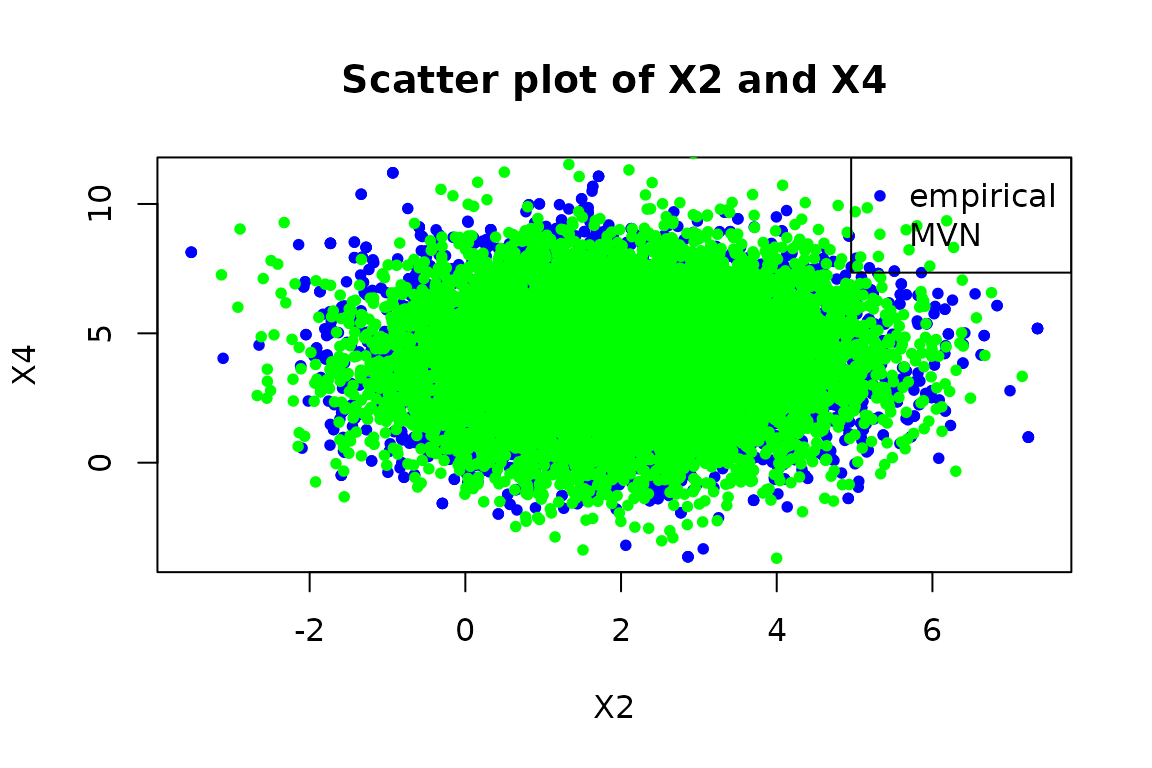
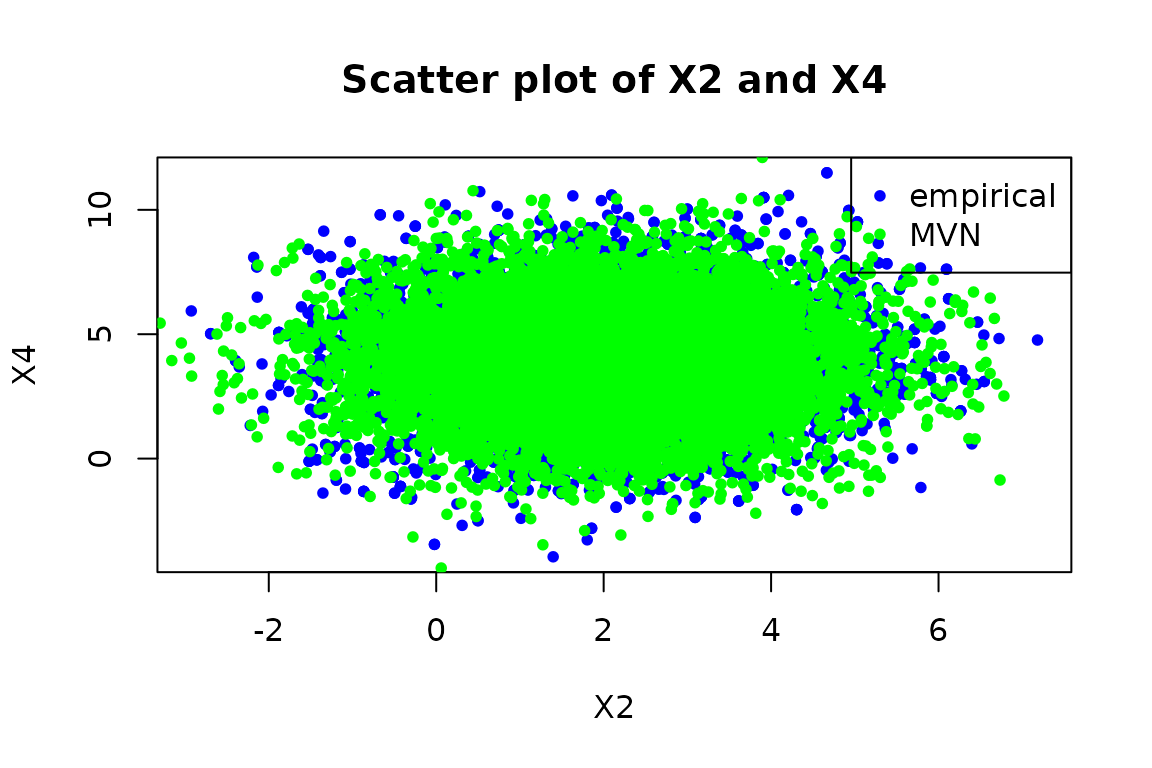
updates

diff --git a/docs/articles/example.html b/docs/articles/example.html
@@ -128,27 +128,27 @@
 <p>We have a sample of size <span class="math inline">\(n=10000\)</span> from the DGP. We show some observations from this sample with:</p>
 <div class="sourceCode" id="cb5"><pre class="downlit sourceCode r">
 <code class="sourceCode R"><span><span class="fu"><a href="https://rdrr.io/r/utils/head.html" class="external-link">head</a></span><span class="op">(</span><span class="va">data</span>, n<span class="op">=</span><span class="fl">6</span><span class="op">)</span></span>
-<span><span class="co">#&gt;       [,1]  [,2] [,3]  [,4] [,5]</span></span>
-<span><span class="co">#&gt; [1,] 0.460 3.359 1.59 1.866 1.92</span></span>
-<span><span class="co">#&gt; [2,] 1.669 2.077 3.93 0.789 2.46</span></span>
-<span><span class="co">#&gt; [3,] 0.714 4.816 5.71 2.557 4.35</span></span>
-<span><span class="co">#&gt; [4,] 1.371 1.579 4.43 9.858 5.75</span></span>
-<span><span class="co">#&gt; [5,] 1.121 1.974 3.25 1.475 5.04</span></span>
-<span><span class="co">#&gt; [6,] 1.503 0.892 4.41 6.675 3.43</span></span></code></pre></div>
+<span><span class="co">#&gt;        [,1]   [,2]  [,3] [,4]  [,5]</span></span>
+<span><span class="co">#&gt; [1,]  1.018  2.875 1.966 1.84 1.920</span></span>
+<span><span class="co">#&gt; [2,]  2.754  1.049 2.824 2.71 0.694</span></span>
+<span><span class="co">#&gt; [3,] -0.816  3.614 3.716 2.69 9.839</span></span>
+<span><span class="co">#&gt; [4,]  0.837  3.573 0.499 2.09 4.872</span></span>
+<span><span class="co">#&gt; [5,]  1.881  3.709 4.856 8.04 5.531</span></span>
+<span><span class="co">#&gt; [6,]  0.976 -0.927 1.493 2.67 5.932</span></span></code></pre></div>
 <p>Now, we also construct a empirical distribution from the sample with:</p>
 <div class="sourceCode" id="cb6"><pre class="downlit sourceCode r">
 <code class="sourceCode R"><span><span class="va">emp</span> <span class="op">&lt;-</span> <span class="fu"><a href="../reference/empirical_dist.html">empirical_dist</a></span><span class="op">(</span><span class="va">data</span><span class="op">)</span></span>
 <span><span class="fu"><a href="https://rdrr.io/r/base/print.html" class="external-link">print</a></span><span class="op">(</span><span class="va">emp</span><span class="op">)</span></span>
 <span><span class="co">#&gt; Empirical Distribution </span></span>
 <span><span class="co">#&gt; Mean:</span></span>
-<span><span class="co">#&gt; [1] 1.00 2.00 3.01 4.01 4.99</span></span>
+<span><span class="co">#&gt; [1] 1.01 2.02 2.99 4.00 5.00</span></span>
 <span><span class="co">#&gt; Covariance:</span></span>
-<span><span class="co">#&gt;          [,1]    [,2]    [,3]    [,4]     [,5]</span></span>
-<span><span class="co">#&gt; [1,]  1.00845 -0.0155 -0.0232 -0.0193  0.00267</span></span>
-<span><span class="co">#&gt; [2,] -0.01550  2.0363 -0.0155 -0.0543 -0.02229</span></span>
-<span><span class="co">#&gt; [3,] -0.02323 -0.0155  2.9540  0.0784  0.03634</span></span>
-<span><span class="co">#&gt; [4,] -0.01934 -0.0543  0.0784  3.9507 -0.00310</span></span>
-<span><span class="co">#&gt; [5,]  0.00267 -0.0223  0.0363 -0.0031  5.08158</span></span>
+<span><span class="co">#&gt;         [,1]     [,2]     [,3]   [,4]    [,5]</span></span>
+<span><span class="co">#&gt; [1,] 1.00960  0.01305  0.00684 0.0220 0.00859</span></span>
+<span><span class="co">#&gt; [2,] 0.01305  1.94926 -0.00593 0.0461 0.04928</span></span>
+<span><span class="co">#&gt; [3,] 0.00684 -0.00593  3.10654 0.0139 0.08274</span></span>
+<span><span class="co">#&gt; [4,] 0.02201  0.04607  0.01393 4.0401 0.05753</span></span>
+<span><span class="co">#&gt; [5,] 0.00859  0.04928  0.08274 0.0575 4.94639</span></span>
 <span><span class="co">#&gt; Number of observations: 10000</span></span></code></pre></div>
 <p>Since this is the empirical distribution, it is parameter-free:</p>
 <div class="sourceCode" id="cb7"><pre class="downlit sourceCode r">
@@ -165,16 +165,16 @@
 <span><span class="fu"><a href="https://rdrr.io/r/base/row.names.html" class="external-link">row.names</a></span><span class="op">(</span><span class="va">df</span><span class="op">)</span> <span class="op">&lt;-</span> <span class="fu"><a href="https://rdrr.io/r/base/paste.html" class="external-link">paste0</a></span><span class="op">(</span><span class="st">"param"</span>,<span class="fl">1</span><span class="op">:</span><span class="fu"><a href="https://rdrr.io/r/base/dim.html" class="external-link">dim</a></span><span class="op">(</span><span class="fu"><a href="../reference/sup.html">sup</a></span><span class="op">(</span><span class="va">M</span><span class="op">)</span><span class="op">)</span><span class="op">)</span></span>
 <span><span class="fu"><a href="https://rdrr.io/r/base/print.html" class="external-link">print</a></span><span class="op">(</span><span class="va">df</span><span class="op">)</span></span>
 <span><span class="co">#&gt;        supremum.mvn supremum.emp infimum.mvn infimum.emp</span></span>
-<span><span class="co">#&gt; param1          Inf         4.56        -Inf       -2.38</span></span>
-<span><span class="co">#&gt; param2          Inf         7.35        -Inf       -3.55</span></span>
-<span><span class="co">#&gt; param3          Inf         9.14        -Inf       -3.93</span></span>
-<span><span class="co">#&gt; param4          Inf        11.20        -Inf       -3.64</span></span>
-<span><span class="co">#&gt; param5          Inf        12.83        -Inf       -3.60</span></span></code></pre></div>
+<span><span class="co">#&gt; param1          Inf         4.42        -Inf       -3.26</span></span>
+<span><span class="co">#&gt; param2          Inf         7.54        -Inf       -2.93</span></span>
+<span><span class="co">#&gt; param3          Inf         9.56        -Inf       -3.56</span></span>
+<span><span class="co">#&gt; param4          Inf        11.78        -Inf       -3.95</span></span>
+<span><span class="co">#&gt; param5          Inf        13.35        -Inf       -3.97</span></span></code></pre></div>
 <p>Let’s compare the mean and covariance-variance matrices of both the MVN and the empirical distribution of the MVN. First, let’s look at the means.</p>
 <div class="sourceCode" id="cb9"><pre class="downlit sourceCode r">
 <code class="sourceCode R"><span><span class="fu"><a href="https://rdrr.io/r/base/mean.html" class="external-link">mean</a></span><span class="op">(</span><span class="va">M</span><span class="op">)</span>; <span class="fu"><a href="https://rdrr.io/r/base/mean.html" class="external-link">mean</a></span><span class="op">(</span><span class="va">emp</span><span class="op">)</span></span>
 <span><span class="co">#&gt; [1] 1 2 3 4 5</span></span>
-<span><span class="co">#&gt; [1] 1.00 2.00 3.01 4.01 4.99</span></span></code></pre></div>
+<span><span class="co">#&gt; [1] 1.01 2.02 2.99 4.00 5.00</span></span></code></pre></div>
 <p>As expected, pretty close. Now let’s look at the variance-covariance:</p>
 <div class="sourceCode" id="cb10"><pre class="downlit sourceCode r">
 <code class="sourceCode R"><span><span class="fu"><a href="https://rdrr.io/r/stats/vcov.html" class="external-link">vcov</a></span><span class="op">(</span><span class="va">M</span><span class="op">)</span>; <span class="fu"><a href="https://rdrr.io/r/stats/vcov.html" class="external-link">vcov</a></span><span class="op">(</span><span class="va">emp</span><span class="op">)</span></span>
@@ -184,51 +184,51 @@
 <span><span class="co">#&gt; [3,]    0    0    3    0    0</span></span>
 <span><span class="co">#&gt; [4,]    0    0    0    4    0</span></span>
 <span><span class="co">#&gt; [5,]    0    0    0    0    5</span></span>
-<span><span class="co">#&gt;          [,1]    [,2]    [,3]    [,4]     [,5]</span></span>
-<span><span class="co">#&gt; [1,]  1.00845 -0.0155 -0.0232 -0.0193  0.00267</span></span>
-<span><span class="co">#&gt; [2,] -0.01550  2.0363 -0.0155 -0.0543 -0.02229</span></span>
-<span><span class="co">#&gt; [3,] -0.02323 -0.0155  2.9540  0.0784  0.03634</span></span>
-<span><span class="co">#&gt; [4,] -0.01934 -0.0543  0.0784  3.9507 -0.00310</span></span>
-<span><span class="co">#&gt; [5,]  0.00267 -0.0223  0.0363 -0.0031  5.08158</span></span></code></pre></div>
+<span><span class="co">#&gt;         [,1]     [,2]     [,3]   [,4]    [,5]</span></span>
+<span><span class="co">#&gt; [1,] 1.00960  0.01305  0.00684 0.0220 0.00859</span></span>
+<span><span class="co">#&gt; [2,] 0.01305  1.94926 -0.00593 0.0461 0.04928</span></span>
+<span><span class="co">#&gt; [3,] 0.00684 -0.00593  3.10654 0.0139 0.08274</span></span>
+<span><span class="co">#&gt; [4,] 0.02201  0.04607  0.01393 4.0401 0.05753</span></span>
+<span><span class="co">#&gt; [5,] 0.00859  0.04928  0.08274 0.0575 4.94639</span></span></code></pre></div>
 <p>The true variances of the population defined by the MVN <span class="math inline">\(M\)</span> is the diagonal of the variance-covariance matrix:</p>
 <div class="sourceCode" id="cb11"><pre class="downlit sourceCode r">
 <code class="sourceCode R"><span><span class="fu"><a href="https://rdrr.io/r/base/diag.html" class="external-link">diag</a></span><span class="op">(</span><span class="fu"><a href="https://rdrr.io/r/stats/vcov.html" class="external-link">vcov</a></span><span class="op">(</span><span class="va">M</span><span class="op">)</span><span class="op">)</span>; <span class="fu"><a href="https://rdrr.io/r/base/diag.html" class="external-link">diag</a></span><span class="op">(</span><span class="fu"><a href="https://rdrr.io/r/stats/vcov.html" class="external-link">vcov</a></span><span class="op">(</span><span class="va">emp</span><span class="op">)</span><span class="op">)</span></span>
 <span><span class="co">#&gt; [1] 1 2 3 4 5</span></span>
-<span><span class="co">#&gt; [1] 1.01 2.04 2.95 3.95 5.08</span></span></code></pre></div>
+<span><span class="co">#&gt; [1] 1.01 1.95 3.11 4.04 4.95</span></span></code></pre></div>
 <p>Let’s compute the variances using the general expectation method:</p>
 <div class="sourceCode" id="cb12"><pre class="downlit sourceCode r">
 <code class="sourceCode R"><span><span class="va">mu.emp</span> <span class="op">&lt;-</span> <span class="fu"><a href="https://rdrr.io/r/base/mean.html" class="external-link">mean</a></span><span class="op">(</span><span class="va">emp</span><span class="op">)</span></span>
 <span><span class="fu"><a href="../reference/expectation.html">expectation</a></span><span class="op">(</span><span class="va">emp</span>, <span class="kw">function</span><span class="op">(</span><span class="va">x</span><span class="op">)</span> <span class="op">(</span><span class="va">x</span> <span class="op">-</span> <span class="va">mu.emp</span><span class="op">)</span><span class="op">^</span><span class="fl">2</span><span class="op">)</span></span>
-<span><span class="co">#&gt; [1] 1.01 2.04 2.95 3.95 5.08</span></span>
+<span><span class="co">#&gt; [1] 1.01 1.95 3.11 4.04 4.95</span></span>
 <span><span class="fu"><a href="../reference/expectation.html">expectation</a></span><span class="op">(</span><span class="va">M</span>, <span class="kw">function</span><span class="op">(</span><span class="va">x</span><span class="op">)</span> <span class="op">(</span><span class="va">x</span> <span class="op">-</span> <span class="fu"><a href="https://rdrr.io/r/base/mean.html" class="external-link">mean</a></span><span class="op">(</span><span class="va">M</span><span class="op">)</span><span class="op">)</span><span class="op">^</span><span class="fl">2</span>, control <span class="op">=</span> <span class="fu"><a href="https://rdrr.io/r/base/list.html" class="external-link">list</a></span><span class="op">(</span>n <span class="op">=</span> <span class="va">n</span><span class="op">)</span><span class="op">)</span></span>
-<span><span class="co">#&gt; [1] 1.01 1.99 2.99 4.11 5.11</span></span></code></pre></div>
+<span><span class="co">#&gt; [1] 0.998 1.969 2.997 3.941 4.926</span></span></code></pre></div>
 <p>We see that these are pretty good estimates, as the expectation is actually a Monte Carlo approximation. We can see the CI’s with:</p>
 <div class="sourceCode" id="cb13"><pre class="downlit sourceCode r">
 <code class="sourceCode R"><span><span class="fu"><a href="../reference/expectation.html">expectation</a></span><span class="op">(</span><span class="va">emp</span>, <span class="kw">function</span><span class="op">(</span><span class="va">x</span><span class="op">)</span> <span class="op">(</span><span class="va">x</span> <span class="op">-</span> <span class="va">mu.emp</span><span class="op">)</span><span class="op">^</span><span class="fl">2</span>, control <span class="op">=</span> <span class="fu"><a href="https://rdrr.io/r/base/list.html" class="external-link">list</a></span><span class="op">(</span>compute_stats <span class="op">=</span> <span class="cn">TRUE</span><span class="op">)</span><span class="op">)</span></span>
 <span><span class="co">#&gt; $value</span></span>
-<span><span class="co">#&gt; [1] 1.01 2.04 2.95 3.95 5.08</span></span>
+<span><span class="co">#&gt; [1] 1.01 1.95 3.11 4.04 4.95</span></span>
 <span><span class="co">#&gt; </span></span>
 <span><span class="co">#&gt; $ci</span></span>
 <span><span class="co">#&gt;       [,1] [,2]</span></span>
 <span><span class="co">#&gt; [1,] 0.981 1.04</span></span>
-<span><span class="co">#&gt; [2,] 1.979 2.09</span></span>
-<span><span class="co">#&gt; [3,] 2.871 3.04</span></span>
-<span><span class="co">#&gt; [4,] 3.841 4.06</span></span>
-<span><span class="co">#&gt; [5,] 4.938 5.22</span></span>
+<span><span class="co">#&gt; [2,] 1.895 2.00</span></span>
+<span><span class="co">#&gt; [3,] 3.019 3.19</span></span>
+<span><span class="co">#&gt; [4,] 3.926 4.15</span></span>
+<span><span class="co">#&gt; [5,] 4.808 5.08</span></span>
 <span><span class="co">#&gt; </span></span>
 <span><span class="co">#&gt; $n</span></span>
 <span><span class="co">#&gt; [1] 10000</span></span>
 <span><span class="fu"><a href="../reference/expectation.html">expectation</a></span><span class="op">(</span><span class="va">M</span>, <span class="kw">function</span><span class="op">(</span><span class="va">x</span><span class="op">)</span> <span class="op">(</span><span class="va">x</span> <span class="op">-</span> <span class="fu"><a href="https://rdrr.io/r/base/mean.html" class="external-link">mean</a></span><span class="op">(</span><span class="va">M</span><span class="op">)</span><span class="op">)</span><span class="op">^</span><span class="fl">2</span>, control <span class="op">=</span> <span class="fu"><a href="https://rdrr.io/r/base/list.html" class="external-link">list</a></span><span class="op">(</span>n <span class="op">=</span> <span class="va">n</span>, compute_stats <span class="op">=</span> <span class="cn">TRUE</span><span class="op">)</span><span class="op">)</span></span>
 <span><span class="co">#&gt; $value</span></span>
-<span><span class="co">#&gt; [1] 0.987 1.985 2.986 3.980 4.978</span></span>
+<span><span class="co">#&gt; [1] 1.00 1.94 2.89 3.97 4.95</span></span>
 <span><span class="co">#&gt; </span></span>
 <span><span class="co">#&gt; $ci</span></span>
-<span><span class="co">#&gt;      [,1] [,2]</span></span>
-<span><span class="co">#&gt; [1,] 0.96 1.01</span></span>
-<span><span class="co">#&gt; [2,] 1.93 2.04</span></span>
-<span><span class="co">#&gt; [3,] 2.90 3.07</span></span>
-<span><span class="co">#&gt; [4,] 3.87 4.09</span></span>
-<span><span class="co">#&gt; [5,] 4.84 5.12</span></span>
+<span><span class="co">#&gt;       [,1] [,2]</span></span>
+<span><span class="co">#&gt; [1,] 0.975 1.03</span></span>
+<span><span class="co">#&gt; [2,] 1.891 2.00</span></span>
+<span><span class="co">#&gt; [3,] 2.813 2.97</span></span>
+<span><span class="co">#&gt; [4,] 3.859 4.08</span></span>
+<span><span class="co">#&gt; [5,] 4.811 5.09</span></span>
 <span><span class="co">#&gt; </span></span>
 <span><span class="co">#&gt; $n</span></span>
 <span><span class="co">#&gt; [1] 10000</span></span></code></pre></div>
@@ -236,9 +236,9 @@
 <div class="sourceCode" id="cb14"><pre class="downlit sourceCode r">
 <code class="sourceCode R"><span><span class="va">mu.emp</span> <span class="op">&lt;-</span> <span class="fu"><a href="https://rdrr.io/r/base/mean.html" class="external-link">mean</a></span><span class="op">(</span><span class="va">emp</span><span class="op">)</span></span>
 <span><span class="fu"><a href="https://rdrr.io/r/base/mean.html" class="external-link">mean</a></span><span class="op">(</span><span class="fu"><a href="../reference/rmap.html">rmap</a></span><span class="op">(</span><span class="va">emp</span>, <span class="kw">function</span><span class="op">(</span><span class="va">x</span><span class="op">)</span> <span class="op">(</span><span class="va">x</span> <span class="op">-</span> <span class="va">mu.emp</span><span class="op">)</span><span class="op">^</span><span class="fl">2</span><span class="op">)</span><span class="op">)</span></span>
-<span><span class="co">#&gt; [1] 1.01 2.04 2.95 3.95 5.08</span></span>
+<span><span class="co">#&gt; [1] 1.01 1.95 3.11 4.04 4.95</span></span>
 <span><span class="fu"><a href="https://rdrr.io/r/base/mean.html" class="external-link">mean</a></span><span class="op">(</span><span class="fu"><a href="../reference/rmap.html">rmap</a></span><span class="op">(</span><span class="va">M</span>, <span class="kw">function</span><span class="op">(</span><span class="va">x</span><span class="op">)</span> <span class="op">(</span><span class="va">x</span> <span class="op">-</span> <span class="fu"><a href="https://rdrr.io/r/base/mean.html" class="external-link">mean</a></span><span class="op">(</span><span class="va">M</span><span class="op">)</span><span class="op">)</span><span class="op">^</span><span class="fl">2</span>, n <span class="op">=</span> <span class="va">n</span><span class="op">)</span><span class="op">)</span></span>
-<span><span class="co">#&gt; [1] 0.978 1.995 2.959 3.964 5.017</span></span></code></pre></div>
+<span><span class="co">#&gt; [1] 0.978 2.009 3.052 4.069 4.895</span></span></code></pre></div>
 <p>These are both reasonable estimates of the variance.</p>
 <p>The PDF of the empirical is not very useful – it gets <span class="math inline">\(1/n\)</span> for each observation:</p>
 <div class="sourceCode" id="cb15"><pre class="downlit sourceCode r">
@@ -249,8 +249,8 @@
 <span>  pdf.emp <span class="op">=</span> <span class="fu"><a href="https://rdrr.io/r/base/c.html" class="external-link">c</a></span><span class="op">(</span><span class="fu"><a href="https://rdrr.io/r/stats/density.html" class="external-link">density</a></span><span class="op">(</span><span class="va">emp</span><span class="op">)</span><span class="op">(</span><span class="va">x</span><span class="op">)</span>, <span class="fu"><a href="https://rdrr.io/r/stats/density.html" class="external-link">density</a></span><span class="op">(</span><span class="va">emp</span><span class="op">)</span><span class="op">(</span><span class="va">y</span><span class="op">)</span><span class="op">)</span>,</span>
 <span>  pdf.mvn <span class="op">=</span> <span class="fu"><a href="https://rdrr.io/r/base/c.html" class="external-link">c</a></span><span class="op">(</span><span class="fu"><a href="https://rdrr.io/r/stats/density.html" class="external-link">density</a></span><span class="op">(</span><span class="va">M</span><span class="op">)</span><span class="op">(</span><span class="va">x</span><span class="op">)</span>, <span class="fu"><a href="https://rdrr.io/r/stats/density.html" class="external-link">density</a></span><span class="op">(</span><span class="va">M</span><span class="op">)</span><span class="op">(</span><span class="va">y</span><span class="op">)</span><span class="op">)</span><span class="op">)</span></span>
 <span><span class="co">#&gt;             ob pdf.emp   pdf.mvn</span></span>
-<span><span class="co">#&gt; 1 empirical(x)  0.0001 0.0000370</span></span>
-<span><span class="co">#&gt; 2       MVN(y)  0.0000 0.0000975</span></span></code></pre></div>
+<span><span class="co">#&gt; 1 empirical(x)  0.0001 0.0000579</span></span>
+<span><span class="co">#&gt; 2       MVN(y)  0.0000 0.0001495</span></span></code></pre></div>
 <p>Let’s plot the CDF of marginal distribution of <span class="math inline">\(X_1\)</span>:</p>
 <div class="sourceCode" id="cb16"><pre class="downlit sourceCode r">
 <code class="sourceCode R"><span><span class="va">X1.emp</span> <span class="op">&lt;-</span> <span class="fu"><a href="../reference/marginal.html">marginal</a></span><span class="op">(</span><span class="va">emp</span>, <span class="fl">1</span><span class="op">)</span></span>
@@ -306,9 +306,9 @@
 <p>Now we show the mean of the conditional distribution, <span class="math inline">\(X | X_1 + X_2 &lt; 0\)</span>:</p>
 <div class="sourceCode" id="cb21"><pre class="downlit sourceCode r">
 <code class="sourceCode R"><span><span class="fu"><a href="https://rdrr.io/r/base/mean.html" class="external-link">mean</a></span><span class="op">(</span><span class="fu"><a href="../reference/conditional.html">conditional</a></span><span class="op">(</span><span class="va">emp</span>, <span class="kw">function</span><span class="op">(</span><span class="va">x</span><span class="op">)</span> <span class="va">x</span><span class="op">[</span><span class="fl">1</span><span class="op">]</span> <span class="op">+</span> <span class="va">x</span><span class="op">[</span><span class="fl">2</span><span class="op">]</span> <span class="op">&lt;</span> <span class="fl">0</span><span class="op">)</span><span class="op">)</span></span>
-<span><span class="co">#&gt; [1] -0.259 -0.484  3.122  4.127  5.202</span></span>
+<span><span class="co">#&gt; [1] -0.294 -0.329  3.095  3.996  4.871</span></span>
 <span><span class="fu"><a href="https://rdrr.io/r/base/mean.html" class="external-link">mean</a></span><span class="op">(</span><span class="fu"><a href="../reference/conditional.html">conditional</a></span><span class="op">(</span><span class="va">M</span>, <span class="kw">function</span><span class="op">(</span><span class="va">x</span><span class="op">)</span> <span class="va">x</span><span class="op">[</span><span class="fl">1</span><span class="op">]</span> <span class="op">+</span> <span class="va">x</span><span class="op">[</span><span class="fl">2</span><span class="op">]</span> <span class="op">&lt;</span> <span class="fl">0</span><span class="op">)</span><span class="op">)</span></span>
-<span><span class="co">#&gt; [1] -0.268 -0.387  2.884  3.862  5.067</span></span></code></pre></div>
+<span><span class="co">#&gt; [1] -0.245 -0.467  2.910  4.133  4.972</span></span></code></pre></div>
 <p>I didn’t do the analysis of what this distribution’s mean should theoretically be, if it’s even practical to derive, but it doesn’t look unreasonable. We see that the mean of the first two components are negative, which makes sense: the sum of the first two components is negative, so the mean of the first two components should be negative.</p>
 </div>
 <div class="section level2">
@@ -342,9 +342,9 @@
 <p>You can compute the mean and variance of an <code>edist</code> object using the <code>mean</code> and <code>vcov</code> functions:</p>
 <div class="sourceCode" id="cb24"><pre class="downlit sourceCode r">
 <code class="sourceCode R"><span><span class="fu"><a href="https://rdrr.io/r/base/mean.html" class="external-link">mean</a></span><span class="op">(</span><span class="va">e</span><span class="op">)</span></span>
-<span><span class="co">#&gt; [1] 0.983</span></span>
+<span><span class="co">#&gt; [1] 0.985</span></span>
 <span><span class="fu"><a href="https://rdrr.io/r/stats/vcov.html" class="external-link">vcov</a></span><span class="op">(</span><span class="va">e</span><span class="op">)</span></span>
-<span><span class="co">#&gt; [1] 2.03</span></span></code></pre></div>
+<span><span class="co">#&gt; [1] 2.06</span></span></code></pre></div>
 <p>Let’s have a look at the parameters of the <code>edist</code> object:</p>
 <div class="sourceCode" id="cb25"><pre class="downlit sourceCode r">
 <code class="sourceCode R"><span><span class="fu"><a href="../reference/params.html">params</a></span><span class="op">(</span><span class="va">e</span><span class="op">)</span></span>
@@ -359,7 +359,7 @@
 <code class="sourceCode R"><span><span class="va">s</span> <span class="op">&lt;-</span> <span class="fu"><a href="../reference/sampler.html">sampler</a></span><span class="op">(</span><span class="va">e</span><span class="op">)</span></span>
 <span><span class="va">samp</span> <span class="op">&lt;-</span> <span class="fu">s</span><span class="op">(</span><span class="fl">10</span><span class="op">)</span>  <span class="co"># Generate a sample of size 10</span></span>
 <span><span class="fu"><a href="https://rdrr.io/r/base/print.html" class="external-link">print</a></span><span class="op">(</span><span class="va">samp</span><span class="op">)</span></span>
-<span><span class="co">#&gt;  [1]  1.730  0.387  1.969  0.652  0.937  0.207  1.073 -0.919  1.670  2.828</span></span></code></pre></div>
+<span><span class="co">#&gt;  [1] -0.458  2.000 -0.240  1.905  1.736  2.379  3.208  1.627  1.571  0.106</span></span></code></pre></div>
 <p>This concludes our overview of the <code>edist</code> object. It’s a powerful tool for working with algebraic expressions of distributions, and we hope you find it useful in your statistical analyses.</p>
 </div>
 </div>

diff --git a/docs/index.html b/docs/index.html
@@ -99,11 +99,7 @@
 <div class="section level2">
 <h2 id="todo">TODO<a class="anchor" aria-label="anchor" href="#todo"></a>
 </h2>
-<ol style="list-style-type: decimal">
-<li><p>Flesh out the vignettes to show how to use the package.</p></li>
-<li><p>Reincorporate the <code>edist</code> (expression distribution), which is just a an R expression combined with an environment that has a dictionary for each of the variables in the expression where if a variable is a <code>dist</code>-type object, then we treat that variable like a random variable. When we, say, sample from the <code>edist</code> object, we’ll sample from the <code>dist</code>-type objects in the environment and then evaluate the expression with the sampled values.</p></li>
-<li><p>For taking the PDF, CDF, expectation, and so on, for now we just use the sampler and then put it into a <code>empirical_dist</code> object, which permits those kinds of operations, but there are clearly a lot of interesting things we can do, e.g., <code>min(x1, x2)</code> when <code>x1</code> and <code>x2</code> are exponential distributions is also an exponential distribution with a failure rate <code>lambda1 + lambda2</code>. There are a host of relations between various named distributions, and there are even more cases where the distribution, no matter how complex, has an asymptotically normal distribution.</p></li>
-</ol>
+<ul><li>Flesh out the <code>algebra</code> logic for things like simplification.</li></ul>
 </div>
 </div>
 

diff --git a/README.md b/README.md
@@ -31,22 +31,4 @@ for a quick introduction to the package.
 
 ## TODO
 
-1.  Flesh out the vignettes to show how to use the package.
-
-2.  Reincorporate the `edist` (expression distribution), which is just a
-    an R expression combined with an environment that has a dictionary
-    for each of the variables in the expression where if a variable is a
-    `dist`-type object, then we treat that variable like a random
-    variable. When we, say, sample from the `edist` object, we’ll sample
-    from the `dist`-type objects in the environment and then evaluate
-    the expression with the sampled values.
-
-3.  For taking the PDF, CDF, expectation, and so on, for now we just use
-    the sampler and then put it into a `empirical_dist` object, which
-    permits those kinds of operations, but there are clearly a lot of
-    interesting things we can do, e.g., `min(x1, x2)` when `x1` and `x2`
-    are exponential distributions is also an exponential distribution
-    with a failure rate `lambda1 + lambda2`. There are a host of
-    relations between various named distributions, and there are even
-    more cases where the distribution, no matter how complex, has an
-    asymptotically normal distribution.
+  - Flesh out the `algebra` logic for things like simplification.
